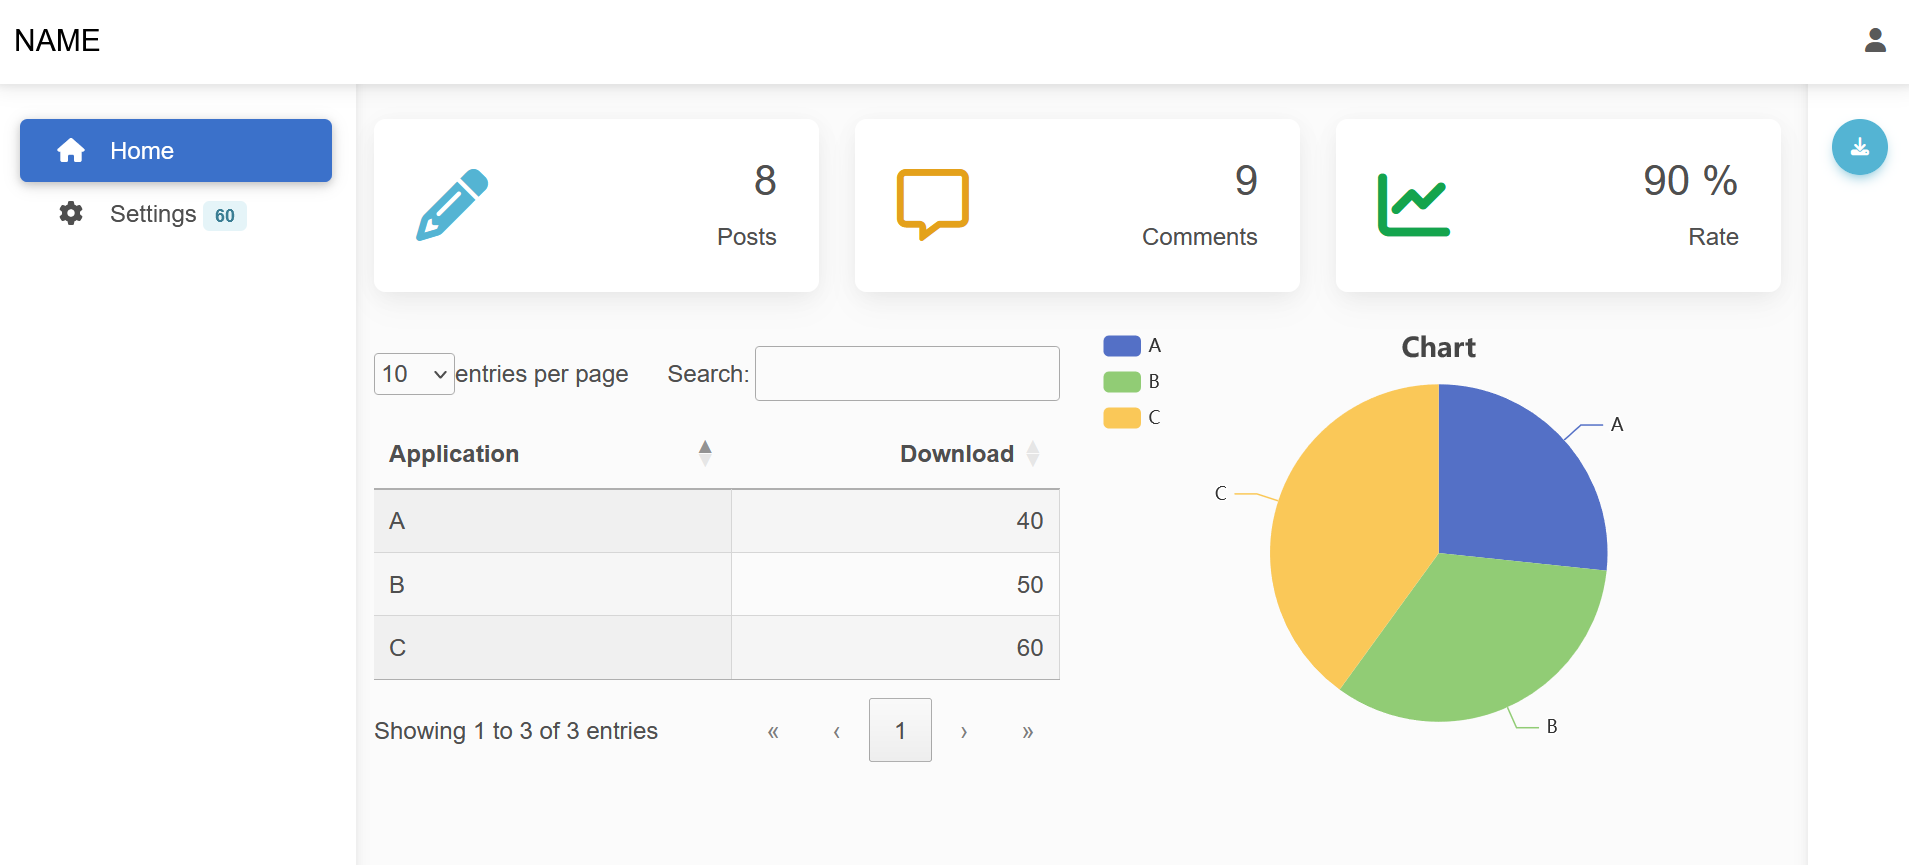
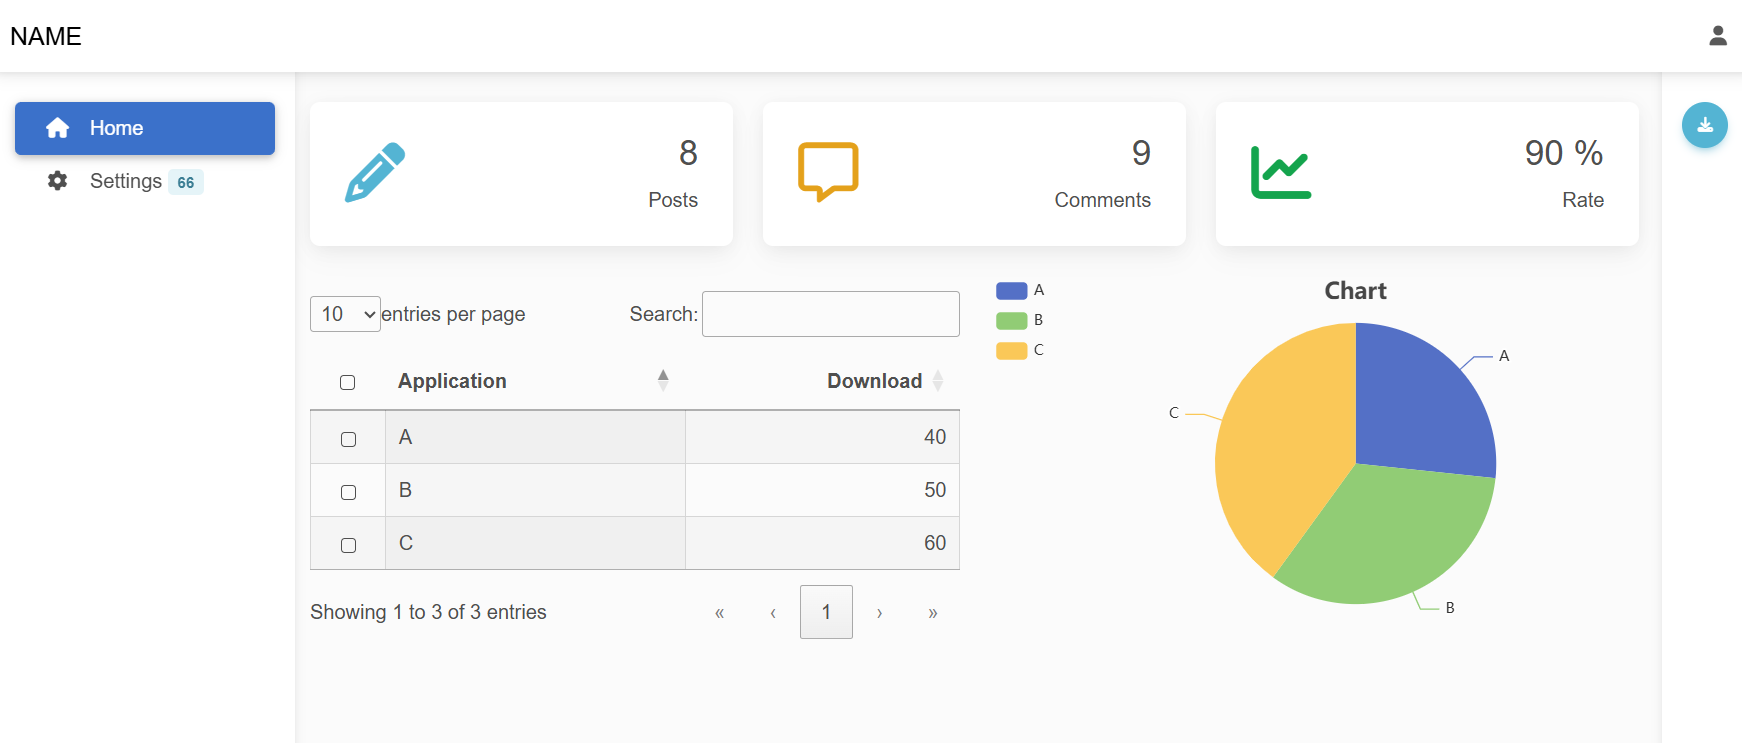
DataTables select

diff --git a/web-mdbootstrap5-admin/lib/js/dataTables.select.min.js b/web-mdbootstrap5-admin/lib/js/dataTables.select.min.js
@@ -1,0 +1,4 @@
+/*! Select for DataTables 3.0.0
+ * © SpryMedia Ltd - datatables.net/license/mit
+ */
+!function(s){var l,c;"function"==typeof define&&define.amd?define(["jquery","datatables.net"],function(e){return s(e,window,document)}):"object"==typeof exports?(l=require("jquery"),c=function(e,t){t.fn.dataTable||require("datatables.net")(e,t)},"undefined"==typeof window?module.exports=function(e,t){return e=e||window,t=t||l(e),c(e,t),s(t,e,e.document)}:(c(window,l),module.exports=s(l,window,window.document))):s(jQuery,window,document)}(function(m,i,a){"use strict";var v=m.fn.dataTable;function r(n,e,t){function s(t,s){s<t&&(e=s,s=t,t=e);var e,l=!1;return n.columns(":visible").indexes().filter(function(e){return e===t&&(l=!0),e===s?!(l=!1):l})}function l(t,s){var e,l=n.rows({search:"applied"}).indexes(),c=(l.indexOf(t)>l.indexOf(s)&&(e=s,s=t,t=e),!1);return l.filter(function(e){return e===t&&(c=!0),e===s?!(c=!1):c})}var c,t=n.cells({selected:!0}).any()||t?(c=s(t.column,e.column),l(t.row,e.row)):(c=s(0,e.column),l(0,e.row)),t=n.cells(t,c).flatten();n.cells(e,{selected:!0}).any()?n.cells(t).deselect():n.cells(t).select()}function w(e){var t=v.select.classes.checkbox;return e?t.replace(/ /g,"."):t}function n(e){var t=e.settings()[0]._select.selector;m(e.table().container()).off("mousedown.dtSelect",t).off("mouseup.dtSelect",t).off("click.dtSelect",t),m("body").off("click.dtSelect"+b(e.table().node()))}function c(o){var a,t=m(o.table().container()),s=o.settings()[0],l=s._select.selector;t.on("mousedown.dtSelect",l,function(e){(e.shiftKey||e.metaKey||e.ctrlKey)&&t.css("-moz-user-select","none").one("selectstart.dtSelect",l,function(){return!1}),i.getSelection&&(a=i.getSelection())}).on("mouseup.dtSelect",l,function(){t.css("-moz-user-select","")}).on("click.dtSelect",l,function(e){var t,s=o.select.items();if(a){var l=i.getSelection();if((!l.anchorNode||m(l.anchorNode).closest("table")[0]===o.table().node())&&l!==a)return}var c,l=o.settings()[0],n=o.table().container();m(e.target).closest("div.dt-container")[0]==n&&(n=o.cell(m(e.target).closest("td, th"))).any()&&(c=m.Event("user-select.dt"),u(o,c,[s,n,e]),c.isDefaultPrevented()||(c=n.index(),"row"===s?(t=c.row,p(e,o,l,"row",t)):"column"===s?(t=n.index().column,p(e,o,l,"column",t)):"cell"===s&&(t=n.index(),p(e,o,l,"cell",t)),l._select_lastCell=c))}),m("body").on("click.dtSelect"+b(o.table().node()),function(e){var t;!s._select.blurable||m(e.target).parents().filter(o.table().container()).length||0===m(e.target).parents("html").length||m(e.target).parents("div.DTE").length||(t=m.Event("select-blur.dt"),u(o,t,[e.target,e]),t.isDefaultPrevented())||_(s,!0)})}function u(e,t,s,l){l&&!e.flatten().length||("string"==typeof t&&(t+=".dt"),s.unshift(e),m(e.table().node()).trigger(t,s))}function g(e){return e.mRender&&"selectCheckbox"===e.mRender._name}function l(l,e){var t,s,c,n,o;"api"!==l.select.style()&&!1!==l.select.info()&&(o=(n=(c=l.settings()[0])._select_set.length)||l.rows({selected:!0}).count(),t=l.columns({selected:!0}).count(),s=l.cells({selected:!0}).count(),"subtractive"===c._select_mode&&(o=l.page.info().recordsDisplay-n),c=function(e,t,s){e.append(m('<span class="select-item"/>').append(l.i18n("select."+t+"s",{_:"%d "+t+"s selected",0:"",1:"1 "+t+" selected"},s)))},n=m(e),c(e=m('<span class="select-info"/>'),"row",o),c(e,"column",t),c(e,"cell",s),(o=n.children("span.select-info")).length&&o.remove(),""!==e.text())&&n.append(e)}function d(e){var t=e.page.info();t.page<t.pages-1&&e.one("draw",function(){e.row(":first-child").node().focus()}).page("next").draw(!1)}function f(e){0<e.page.info().page&&e.one("draw",function(){e.row(":last-child").node().focus()}).page("previous").draw(!1)}function o(o){var c,a=new v.Api(o);o._select_init=!0,o._select_mode="additive",o._select_set=[],o.aoRowCreatedCallback.push(function(e,t,s){var l,c,n=o.aoData[s],s=a.row(s).id();for((n._select_selected||"additive"===o._select_mode&&o._select_set.includes(s)||"subtractive"===o._select_mode&&!o._select_set.includes(s))&&(n._select_selected=!0,m(e).addClass(o._select.className).find("input."+w(!0)).prop("checked",!0)),l=0,c=o.aoColumns.length;l<c;l++)(o.aoColumns[l]._select_selected||n._selected_cells&&n._selected_cells[l])&&m(n.anCells[l]).addClass(o._select.className)}),(c=a).on("select",function(e,t,s,l){"row"===s&&("additive"===(s=c.settings()[0])._select_mode?y:x)(c,s._select_set,l)}),c.on("deselect",function(e,t,s,l){"row"===s&&("additive"===(s=c.settings()[0])._select_mode?x:y)(c,s._select_set,l)}),a.on("info.dt",function(e,t,s){t._select.infoEls.includes(s)||t._select.infoEls.push(s),l(a,s)}),a.on("select.dtSelect.dt deselect.dtSelect.dt",function(){o._select.infoEls.forEach(function(e){l(a,e)}),a.state.save()}),a.on("destroy.dtSelect",function(){m(a.rows({selected:!0}).nodes()).removeClass(a.settings()[0]._select.className),m("input."+w(!0),a.table().header()).remove(),n(a),a.off(".dtSelect"),m("body").off(".dtSelect"+b(a.table().node()))})}function h(e,t,s,l){var c,n=e[t+"s"]({search:"applied"}).indexes(),l=n.indexOf(l),o=n.indexOf(s);e[t+"s"]({selected:!0}).any()||-1!==l?(o<l&&(c=o,o=l,l=c),n.splice(o+1,n.length),n.splice(0,l)):n.splice(n.indexOf(s)+1,n.length),e[t](s,{selected:!0}).any()?(n.splice(n.indexOf(s),1),e[t+"s"](n).deselect()):e[t+"s"](n).select()}function _(e,t){!t&&"single"!==e._select.style||((t=new v.Api(e)).rows({selected:!0}).deselect(),t.columns({selected:!0}).deselect(),t.cells({selected:!0}).deselect())}function p(e,t,s,l,c){var n=t.select.style(),o=t.select.toggleable(),a=t[l](c,{selected:!0}).any();a&&!o||("os"===n?e.ctrlKey||e.metaKey?t[l](c).select(!a):e.shiftKey?"cell"===l?r(t,c,s._select_lastCell||null):h(t,l,c,s._select_lastCell?s._select_lastCell[l]:null):(o=t[l+"s"]({selected:!0}),a&&1===o.flatten().length?t[l](c).deselect():(o.deselect(),t[l](c).select())):"multi+shift"==n&&e.shiftKey?"cell"===l?r(t,c,s._select_lastCell||null):h(t,l,c,s._select_lastCell?s._select_lastCell[l]:null):t[l](c).select(!a))}function b(e){return e.id.replace(/[^a-zA-Z0-9\-\_]/g,"-")}function y(e,t,s){for(var l=0;l<s.length;l++){var c=e.row(s[l]).id();c&&"undefined"!==c&&!t.includes(c)&&t.push(c)}}function x(e,t,s){for(var l=0;l<s.length;l++){var c=e.row(s[l]).id(),c=t.indexOf(c);-1!==c&&t.splice(c,1)}}v.select={},v.select.classes={checkbox:"dt-select-checkbox"},v.select.version="3.0.0",v.select.init=function(o){var e,t,s,l,c,n,a,i,r,u,d,f,h,_,p=o.settings()[0];if(!v.versionCheck("2"))throw"Warning: Select requires DataTables 2 or newer";!p._select&&(e=o.state.loaded(),t=function(e,t,s){if(null!==s&&void 0!==s.select){if(o.rows({selected:!0}).any()&&o.rows().deselect(),void 0!==s.select.rows&&o.rows(s.select.rows).select(),o.columns({selected:!0}).any()&&o.columns().deselect(),void 0!==s.select.columns&&o.columns(s.select.columns).select(),o.cells({selected:!0}).any()&&o.cells().deselect(),void 0!==s.select.cells)for(var l=0;l<s.select.cells.length;l++)o.cell(s.select.cells[l].row,s.select.cells[l].column).select();o.state.save()}},o.on("stateSaveParams",function(e,t,s){s.select={},s.select.rows=o.rows({selected:!0}).ids(!0).toArray(),s.select.columns=o.columns({selected:!0})[0],s.select.cells=o.cells({selected:!0})[0].map(function(e){return{row:o.row(e.row).id(!0),column:e.column}})}).on("stateLoadParams",t).one("init",function(){t(0,0,e)}),l=p.oInit.select,s=v.defaults.select,s=void 0===l?s:l,l="row",a=!(n=!(c="api")),u="td, th",d="selected",_=h=!(f=r=!(i=null)),p._select={infoEls:[]},!0===s?(c="os",h=!0):"string"==typeof s?(c=s,h=!0):m.isPlainObject(s)&&(void 0!==s.blurable&&(n=s.blurable),void 0!==s.toggleable&&(a=s.toggleable),void 0!==s.info&&(r=s.info),void 0!==s.items&&(l=s.items),h=(c=void 0!==s.style?s.style:"os",!0),void 0!==s.selector&&(u=s.selector),void 0!==s.className&&(d=s.className),void 0!==s.headerCheckbox&&(f=s.headerCheckbox),void 0!==s.selectable&&(i=s.selectable),void 0!==s.keys)&&(_=s.keys),o.select.selector(u),o.select.items(l),o.select.style(c),o.select.blurable(n),o.select.toggleable(a),o.select.info(r),o.select.keys(_),o.select.selectable(i),p._select.className=d,!h&&m(o.table().node()).hasClass("selectable")&&o.select.style("os"),f||"select-page"===f||"select-all"===f)&&o.ready(function(){var c,n,s;n=f,s=(c=o).settings()[0].aoColumns,c.columns().iterator("column",function(e,t){var l;g(s[t])&&(t=c.column(t).header(),m("input",t).length||(l=m("<input>").attr({class:w(!0),type:"checkbox","aria-label":c.i18n("select.aria.headerCheckbox")||"Select all rows"}).appendTo(t).on("change",function(){this.checked?("select-page"==n?c.rows({page:"current"}):c.rows({search:"applied"})).select():("select-page"==n?c.rows({page:"current",selected:!0}):c.rows({selected:!0})).deselect()}).on("click",function(e){e.stopPropagation()}),c.on("draw select deselect",function(e,t,s){"row"!==s&&s||((s=function(e,t){var s=e.settings()[0],l=s._select.selectable,c=0,n=("select-page"==t?e.rows({page:"current",selected:!0}):e.rows({selected:!0})).count(),o=("select-page"==t?e.rows({page:"current",selected:!0}):e.rows({search:"applied",selected:!0})).count();if(l)for(var a=("select-page"==t?e.rows({page:"current"}):e.rows({search:"applied"})).indexes(),i=0;i<a.length;i++){var r=s.aoData[a[i]];l(r._aData,r.nTr,a[i])&&c++}else c=("select-page"==t?e.rows({page:"current"}):e.rows({search:"applied"})).count();return{available:c,count:n,search:o}}(c,n)).search&&s.search<=s.count&&s.search===s.available?l.prop("checked",!0).prop("indeterminate",!1):0===s.search&&0===s.count?l.prop("checked",!1).prop("indeterminate",!1):l.prop("checked",!1).prop("indeterminate",!0))})))})})},m.each([{type:"row",prop:"aoData"},{type:"column",prop:"aoColumns"}],function(e,i){v.ext.selector[i.type].push(function(e,t,s){var l,c=t.selected,n=[];if(!0!==c&&!1!==c)return s;for(var o=0,a=s.length;o<a;o++)(l=e[i.prop][s[o]])&&(!0===c&&!0===l._select_selected||!1===c&&!l._select_selected)&&n.push(s[o]);return n})}),v.ext.selector.cell.push(function(e,t,s){var l,c=t.selected,n=[];if(void 0===c)return s;for(var o=0,a=s.length;o<a;o++)(l=e.aoData[s[o].row])&&(!0===c&&l._selected_cells&&!0===l._selected_cells[s[o].column]||!1===c&&(!l._selected_cells||!l._selected_cells[s[o].column]))&&n.push(s[o]);return n});var e=v.Api.register,t=v.Api.registerPlural;function s(t,s){return function(e){return e.i18n("buttons."+t,s)}}function C(e){e=e._eventNamespace;return"draw.dt.DT"+e+" select.dt.DT"+e+" deselect.dt.DT"+e}e("select()",function(){return this.iterator("table",function(e){v.select.init(new v.Api(e))})}),e("select.blurable()",function(t){return void 0===t?this.context[0]._select.blurable:this.iterator("table",function(e){e._select.blurable=t})}),e("select.toggleable()",function(t){return void 0===t?this.context[0]._select.toggleable:this.iterator("table",function(e){e._select.toggleable=t})}),e("select.info()",function(t){return void 0===t?this.context[0]._select.info:this.iterator("table",function(e){e._select.info=t})}),e("select.items()",function(t){return void 0===t?this.context[0]._select.items:this.iterator("table",function(e){e._select.items=t,u(new v.Api(e),"selectItems",[t])})}),e("select.keys()",function(s){return void 0===s?this.context[0]._select.keys:this.iterator("table",function(e){var o,t;e._select||v.select.init(new v.Api(e)),e._select.keys=s,o=new v.Api(e),t=(e=o.settings()[0])._select.keys,e="dts-keys-"+e.sTableId,t?(m(o.rows({page:"current"}).nodes()).attr("tabindex",0),o.on("draw."+e,function(){m(o.rows({page:"current"}).nodes()).attr("tabindex",0)}),m(a).on("keydown."+e,function(e){var t,s,l,c=e.keyCode,n=a.activeElement;[9,13,32,38,40].includes(c)&&(l=!0,-1!==(s=(t=o.rows({page:"current"}).nodes().toArray()).indexOf(n)))&&(9===c?!1===e.shift&&s===t.length-1?d(o):!0===e.shift&&0===s?f(o):l=!1:13===c||32===c?(n=o.row(n)).selected()?n.deselect():n.select():38===c?0<s?t[s-1].focus():f(o):s<t.length-1?t[s+1].focus():d(o),l)&&(e.stopPropagation(),e.preventDefault())})):(m(o.rows().nodes()).removeAttr("tabindex"),o.off("draw."+e),m(a).off("keydown."+e))})}),e("select.style()",function(s){return void 0===s?this.context[0]._select.style:this.iterator("table",function(e){e._select||v.select.init(new v.Api(e)),e._select_init||o(e),e._select.style=s;var t=new v.Api(e);"api"!==s?t.ready(function(){n(t),c(t)}):n(t),u(new v.Api(e),"selectStyle",[s])})}),e("select.selector()",function(l){return void 0===l?this.context[0]._select.selector:this.iterator("table",function(e){var t=new v.Api(e),s=e._select.style;n(t),e._select.selector=l,s&&"api"!==s?t.ready(function(){n(t),c(t)}):n(t)})}),e("select.selectable()",function(e){var t=this.context[0];return e?(t._select.selectable=e,this):t._select.selectable}),e("select.last()",function(e){var t=this.context[0];return e?(t._select_lastCell=e,this):t._select_lastCell}),e("select.cumulative()",function(l){var e;return l?this.iterator("table",function(e){var t,s;e._select_mode!==l&&(t=new v.Api(e),"subtractive"===l?(s=t.rows({selected:!1}).ids().toArray(),e._select_mode=l,e._select_set.length=0,e._select_set.push.apply(e._select_set,s)):(s=t.rows({selected:!0}).ids().toArray(),e._select_mode=l,e._select_set.length=0,e._select_set.push.apply(e._select_set,s)))}).draw(!1):(e=this.context[0])&&e._select_set?{mode:e._select_mode,rows:e._select_set}:null}),t("rows().select()","row().select()",function(e){var o=this,a=[];return!1===e?this.deselect():(this.iterator("row",function(e,t){_(e);var s=e.aoData[t],l=e.aoColumns;if(e._select.selectable&&!1===e._select.selectable(s._aData,s.nTr,t))return;m(s.nTr).addClass(e._select.className),s._select_selected=!0,a.push(t);for(var c=0;c<l.length;c++){var n=l[c];null===n.sType&&o.columns().types(),g(n)&&((n=s.anCells)&&n[c]&&m("input."+w(!0),n[c]).prop("checked",!0),null!==s._aSortData)&&(s._aSortData[c]=null)}}),this.iterator("table",function(e){u(o,"select",["row",a],!0)}),this)}),e("row().selected()",function(){var e=this.context[0];return!!(e&&this.length&&e.aoData[this[0]]&&e.aoData[this[0]]._select_selected)}),e("row().focus()",function(){var e=this.context[0];e&&this.length&&e.aoData[this[0]]&&e.aoData[this[0]].nTr&&e.aoData[this[0]].nTr.focus()}),e("row().blur()",function(){var e=this.context[0];e&&this.length&&e.aoData[this[0]]&&e.aoData[this[0]].nTr&&e.aoData[this[0]].nTr.blur()}),t("columns().select()","column().select()",function(e){var s=this;return!1===e?this.deselect():(this.iterator("column",function(e,t){_(e),e.aoColumns[t]._select_selected=!0;t=new v.Api(e).column(t);m(t.header()).addClass(e._select.className),m(t.footer()).addClass(e._select.className),t.nodes().to$().addClass(e._select.className)}),this.iterator("table",function(e,t){u(s,"select",["column",s[t]],!0)}),this)}),e("column().selected()",function(){var e=this.context[0];return!!(e&&this.length&&e.aoColumns[this[0]]&&e.aoColumns[this[0]]._select_selected)}),t("cells().select()","cell().select()",function(e){var s=this;return!1===e?this.deselect():(this.iterator("cell",function(e,t,s){_(e);t=e.aoData[t];void 0===t._selected_cells&&(t._selected_cells=[]),t._selected_cells[s]=!0,t.anCells&&m(t.anCells[s]).addClass(e._select.className)}),this.iterator("table",function(e,t){u(s,"select",["cell",s.cells(s[t]).indexes().toArray()],!0)}),this)}),e("cell().selected()",function(){var e=this.context[0];if(e&&this.length){e=e.aoData[this[0][0].row];if(e&&e._selected_cells&&e._selected_cells[this[0][0].column])return!0}return!1}),t("rows().deselect()","row().deselect()",function(){var o=this;return this.iterator("row",function(e,t){var s=e.aoData[t],l=e.aoColumns;m(s.nTr).removeClass(e._select.className),s._select_selected=!1,e._select_lastCell=null;for(var c=0;c<l.length;c++){var n=l[c];null===n.sType&&o.columns().types(),g(n)&&((n=s.anCells)&&n[c]&&m("input."+w(!0),s.anCells[c]).prop("checked",!1),null!==s._aSortData)&&(s._aSortData[c]=null)}}),this.iterator("table",function(e,t){u(o,"deselect",["row",o[t]],!0)}),this}),t("columns().deselect()","column().deselect()",function(){var s=this;return this.iterator("column",function(l,e){l.aoColumns[e]._select_selected=!1;var t=new v.Api(l),s=t.column(e);m(s.header()).removeClass(l._select.className),m(s.footer()).removeClass(l._select.className),t.cells(null,e).indexes().each(function(e){var t=l.aoData[e.row],s=t._selected_cells;!t.anCells||s&&s[e.column]||m(t.anCells[e.column]).removeClass(l._select.className)})}),this.iterator("table",function(e,t){u(s,"deselect",["column",s[t]],!0)}),this}),t("cells().deselect()","cell().deselect()",function(){var s=this;return this.iterator("cell",function(e,t,s){t=e.aoData[t];void 0!==t._selected_cells&&(t._selected_cells[s]=!1),t.anCells&&!e.aoColumns[s]._select_selected&&m(t.anCells[s]).removeClass(e._select.className)}),this.iterator("table",function(e,t){u(s,"deselect",["cell",s[t]],!0)}),this});var k=0;return m.extend(v.ext.buttons,{selected:{text:s("selected","Selected"),className:"buttons-selected",limitTo:["rows","columns","cells"],init:function(s,e,l){var c=this;l._eventNamespace=".select"+k++,s.on(C(l),function(){var e,t;c.enable((e=s,!(-1===(t=l).limitTo.indexOf("rows")||!e.rows({selected:!0}).any())||!(-1===t.limitTo.indexOf("columns")||!e.columns({selected:!0}).any())||!(-1===t.limitTo.indexOf("cells")||!e.cells({selected:!0}).any())))}),this.disable()},destroy:function(e,t,s){e.off(s._eventNamespace)}},selectedSingle:{text:s("selectedSingle","Selected single"),className:"buttons-selected-single",init:function(t,e,s){var l=this;s._eventNamespace=".select"+k++,t.on(C(s),function(){var e=t.rows({selected:!0}).flatten().length+t.columns({selected:!0}).flatten().length+t.cells({selected:!0}).flatten().length;l.enable(1===e)}),this.disable()},destroy:function(e,t,s){e.off(s._eventNamespace)}},selectAll:{text:s("selectAll","Select all"),className:"buttons-select-all",action:function(e,t,s,l){var c=this.select.items(),n=l.selectorModifier;(n?("function"==typeof n&&(n=n.call(t,e,t,s,l)),this[c+"s"](n)):this[c+"s"]()).select()}},selectNone:{text:s("selectNone","Deselect all"),className:"buttons-select-none",action:function(){_(this.settings()[0],!0)},init:function(t,e,s){var l=this;s._eventNamespace=".select"+k++,t.on(C(s),function(){var e=t.rows({selected:!0}).flatten().length+t.columns({selected:!0}).flatten().length+t.cells({selected:!0}).flatten().length;l.enable(0<e)}),this.disable()},destroy:function(e,t,s){e.off(s._eventNamespace)}},showSelected:{text:s("showSelected","Show only selected"),className:"buttons-show-selected",action:function(e,t){var l;t.search.fixed("dt-select")?(t.search.fixed("dt-select",null),this.active(!1)):(l=t.settings()[0].aoData,t.search.fixed("dt-select",function(e,t,s){return l[s]._select_selected}),this.active(!0)),t.draw()}}}),m.each(["Row","Column","Cell"],function(e,t){var c=t.toLowerCase();v.ext.buttons["select"+t+"s"]={text:s("select"+t+"s","Select "+c+"s"),className:"buttons-select-"+c+"s",action:function(){this.select.items(c)},init:function(e){var l=this;this.active(e.select.items()===c),e.on("selectItems.dt.DT",function(e,t,s){l.active(s===c)})}}}),v.type("select-checkbox",{className:"dt-select",detect:v.versionCheck("2.1")?{oneOf:function(){return!1},allOf:function(){return!1},init:function(e,t,s){return g(t)}}:function(e){return"select-checkbox"===e&&e},order:{pre:function(e){return"X"===e?-1:0}}}),m.extend(!0,v.defaults.oLanguage,{select:{aria:{rowCheckbox:"Select row"}}}),v.render.select=function(e,t){function s(e,t,s,l){var c=l.settings.aoData[l.row],n=c._select_selected,o=l.settings.oLanguage.select.aria.rowCheckbox,a=l.settings._select.selectable;return"display"!==t?"type"===t?"select-checkbox":"filter"!==t&&n?"X":"":a&&!1===a(s,c.nTr,l.row)?"":m("<input>").attr({"aria-label":o,class:w(),name:r?r(s):null,type:"checkbox",value:i?i(s):null,checked:n}).on("input",function(e){e.preventDefault(),this.checked=m(this).closest("tr").hasClass("selected")})[0]}var i=e?v.util.get(e):null,r=t?v.util.get(t):null;return s._name="selectCheckbox",s},v.ext.order["select-checkbox"]=function(t,e){return this.api().column(e,{order:"index"}).nodes().map(function(e){return"row"===t._select.items?m(e).parent().hasClass(t._select.className).toString():"cell"===t._select.items&&m(e).hasClass(t._select.className).toString()})},m.fn.DataTable.select=v.select,m(a).on("i18n.dt.dtSelect preInit.dt.dtSelect",function(e,t){"dt"===e.namespace&&v.select.init(new v.Api(t))}),v});

diff --git a/web-mdbootstrap5-admin/lib/css/select.dataTables.min.css b/web-mdbootstrap5-admin/lib/css/select.dataTables.min.css
@@ -1,0 +1,1 @@
+table.dataTable>tbody>tr>.selected{background-color:rgba(13, 110, 253, 0.9);color:white}table.dataTable>tbody>tr>.dt-select{text-align:center;vertical-align:middle}table.dataTable>thead>tr>.dt-select{text-align:center}table.dataTable input.dt-select-checkbox{appearance:none;position:relative;display:inline-block;width:12px;height:12px;border:1px solid;border-radius:3px;vertical-align:middle;margin-top:1px;color:inherit;font-size:20px;line-height:1em}table.dataTable input.dt-select-checkbox:checked:after{display:block;content:"✓";margin-top:-8px}table.dataTable input.dt-select-checkbox:indeterminate:after{display:block;position:absolute;content:" ";top:3px;left:3px;height:4px;width:4px;background-color:black;border-radius:2px}table.dataTable>tbody>tr.selected input.dt-select-checkbox:checked{border:1px solid}table.dataTable>tbody>tr>td.select-checkbox,table.dataTable>tbody>tr>th.select-checkbox{position:relative}table.dataTable>tbody>tr>td.select-checkbox:before,table.dataTable>tbody>tr>th.select-checkbox:before{display:block;position:absolute;top:50%;left:50%;width:12px;height:12px;box-sizing:border-box;content:" ";margin-top:-6px;margin-left:-6px;border:1px solid;border-radius:3px}table.dataTable>tbody>tr.selected>td.select-checkbox:before,table.dataTable>tbody>tr.selected>th.select-checkbox:before{border:1px solid;content:"✓";font-size:20px;line-height:6px;text-align:center}table.dataTable.compact>tbody>tr>td.select-checkbox:before,table.dataTable.compact>tbody>tr>th.select-checkbox:before{margin-top:-12px}table.dataTable.compact>tbody>tr.selected>td.select-checkbox:after,table.dataTable.compact>tbody>tr.selected>th.select-checkbox:after{margin-top:-16px}div.dt-container span.select-info,div.dt-container span.select-item{margin-left:.5em}html.dark table.dataTable input.dt-select-checkbox:indeterminate:after,html[data-bs-theme=dark] table.dataTable input.dt-select-checkbox:indeterminate:after{background-color:white}@media screen and (max-width: 640px){div.dt-container span.select-info,div.dt-container span.select-item{margin-left:0;display:block}}

diff --git a/web-mdbootstrap5-admin/data/home.html b/web-mdbootstrap5-admin/data/home.html
@@ -64,20 +64,24 @@
           <table id='table' class='display cell-border'>
             <thead>
               <tr>
+                <th></th>
                 <th>Application</th>
                 <th>Download</th>
               </tr>
             </thead>
             <tbody>
               <tr>
+                <td>1</td>
                 <td>A</td>
                 <td>40</td>
               </tr>
               <tr>
+                <td>2</td>
                 <td>B</td>
                 <td>50</td>
               </tr>
               <tr>
+                <td>3</td>
                 <td>C</td>
                 <td>60</td>
               </tr>
@@ -96,7 +100,19 @@
     var q = $.noConflict();
     q(document).ready(function() {
         q('#table').DataTable({
-          'scrollX': true
+            scrollX: true,
+            order: [[1, 'asc']],
+            columnDefs: [
+                {
+                    targets: 0,
+                    orderable: false,
+                    render: DataTable.render.select()
+                }
+            ],
+            select: {
+                style: 'multi',
+                selector: 'td:first-child'
+            }
         });
 
         var c = echarts.init(document.getElementById('chart'));
